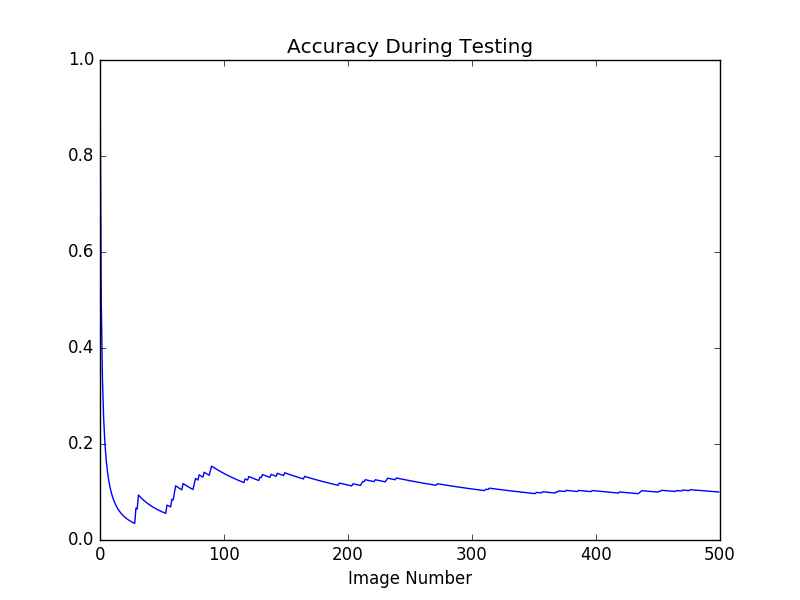
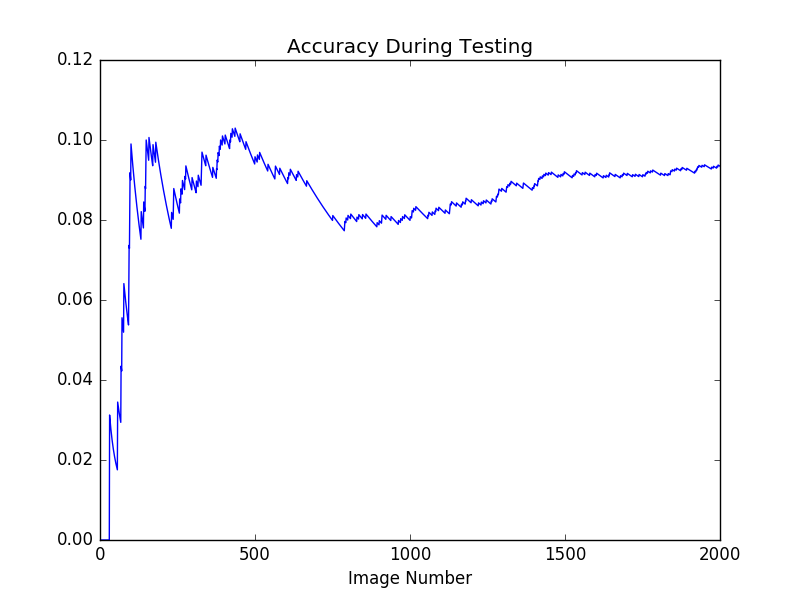
Continued debugging and still can't find the problem.  Added normalize and unnormalize to r_network_class.

diff --git a/Rozell/r_network_class.py b/Rozell/r_network_class.py
@@ -12,11 +12,13 @@ class r_network:
         self.dict_range = D.max() - D.min()
         self.dict_min = D.min()
         self.dict_scaled = False
+        self.norms = None
         self.trained = D.copy()
         self.train_range = self.trained.max() - self.trained.min()
         self.train_min = self.trained.min()
         self.train_scaled = False
         self.s = None
+        self.s_norm = None
         self.s_range = None
         self.s_min = None
         self.s_scaled = False
@@ -57,6 +59,24 @@ class r_network:
                 self.dictionary = (self.dictionary * self.dict_range) + self.dict_min
                 self.dict_scaled = False
             self.b = np.dot(np.transpose(self.dictionary), self.s)
+
+    def normalize(self):
+        self.s_norm = np.sqrt(np.dot(self.s, self.s))
+        self.s /= self.s_norm
+        self.norms = np.array([])
+        for i in range(self.dictionary.shape[1]):
+            norm = np.sqrt(np.dot(self.dictionary[:,i],self.dictionary[:,i]))
+            self.dictionary[:,i] /= norm
+            self.norms = np.append(self.norms, norm)
+        self.b = np.dot(np.transpose(self.dictionary), self.s)
+
+    def unnormalize(self):
+        self.s *= self.s_norm
+        for i in range(self.dictionary.shape[1]):
+            self.dictionary[:,i] *= self.norms[i]
+       
+
+        
 
 
 
@@ -109,14 +129,17 @@ class r_network:
     def generate_sparse(self, train = False):
         u = np.zeros(self.b.shape)
         self.a = u.copy()  #Initialize a by setting equal to u
-        self.scale(train)
+        #self.scale(train)
+        '''
+        self.s /= 255
+        self.dictionary /= 255
+        self.b = np.dot(np.transpose(self.dictionary), self.s)
+        '''
         #Use trained dictionary if using to train network
         if (train):
-            inhibit = np.dot(np.transpose(self.trained), self.trained)\
-                      - ((np.eye(self.trained.shape[1]) - self.train_min) / self.train_range)
+            inhibit = np.dot(np.transpose(self.trained), self.trained) - np.eye(self.trained.shape[1])#- self.train_min) / self.train_range)
         else:
-            inhibit = np.dot(np.transpose(self.dictionary), self.dictionary)\
-                         - ((np.eye(self.dictionary.shape[1]) - self.dict_min) / self.dict_range)
+            inhibit = np.dot(np.transpose(self.dictionary), self.dictionary) - np.eye(self.dictionary.shape[1])#- self.dict_min) / self.dict_range)
                                
         udot = (1/self.tau) * (self.b - u - np.dot(inhibit, self.a))
         loop_flag = True
@@ -124,7 +147,10 @@ class r_network:
         #Generate vector self.a
         #debug = []
         len_u = len(u)
+        iterations = 0
+        ulen = []
         while (loop_flag):
+            iterations += 1
             u = u + (udot * self.delta)
             #Update a vector
             for i in range(len(self.a)):
@@ -132,13 +158,19 @@ class r_network:
 
             udot = (1/self.tau) * (self.b - u - np.dot(inhibit, self.a))
             udot_length = math.sqrt(np.dot(udot,udot))
+            ulen.append(udot_length / len_u)
             if ((udot_length / len_u) < (self.u_stop)):
                 loop_flag = False
 
             #debug.append({ 'a': self.a.copy(), 'u': u.copy(), 'udot': ... })
         #pdb.set_trace()
-        self.scale(train)
-        return self.a
+        #self.scale(train)
+        '''
+        self.s *= 255
+        self.dictionary *= 255
+        self.b = np.dot(np.transpose(self.dictionary), self.s)
+        '''
+        return (self.a)   #, iterations, ulen)
         '''
         df = pandas.DataFrame(debug)
         print df.to_string()

diff --git a/Test/DB Classifier/debug_classifier.py b/Test/DB Classifier/debug_classifier.py
@@ -1,0 +1,78 @@
+import imp
+import os
+import sys
+from PIL import Image
+import numpy as np
+import socket
+import pandas
+import matplotlib.pyplot as plt
+import pdb
+
+machine = socket.gethostname()
+if (machine == 'Jack-PC'):
+    #Big laptop
+    sys.path.append('C:\\Users\\Jack2\\Desktop\\Git_Repos\\jc2\\MNIST_Load')
+    sys.path.append('C:\\Users\\Jack2\\Desktop\\Git_Repos\\jc2\\Rozell')
+    os.chdir('C:\\Users\\Jack2\\Desktop\\Git_Repos\\jc2\\MNIST_Load')
+elif (machine == 'Tab'):
+    #Little laptop
+    sys.path.append('C:\\Users\\Jack\\Desktop\\Git_Repos\\jc2\\MNIST_Load')
+    sys.path.append('C:\\Users\\Jack\\Desktop\\Git_Repos\\jc2\\Rozell')
+    os.chdir('C:\\Users\\Jack\\Desktop\\Git_Repos\\jc2\\MNIST_Load')
+else:
+    #PSU machines (linux lab)
+    base = os.path.expanduser('~/dev/jc2')
+    sys.path.append(os.path.join(base, 'MNIST_Load'))
+    sys.path.append(os.path.join(base, 'Rozell'))
+    os.chdir(os.path.join(base, 'MNIST_Load'))
+
+
+import mnist_load as mnist
+import sparse_algo as sp
+import r_network_class as lca
+
+
+##############################Test return_sparse##########################################################################################
+
+#Set parameters
+lamb = .1
+tau = 10
+delta = 0.01
+u_stop = 0.001
+t_type = 'S'
+num_images = 1
+
+
+#Load MNIST dictionary and signal
+image_file = 't10k-images.idx3-ubyte'  #'train-images.idx3-ubyte'
+signal_data = mnist.load_images(image_file, num_images, 740)
+dict_data = mnist.load_images(image_file, 50, 1)
+D = sp.build_dictionary(dict_data)
+#dict_data = pandas.read_csv('trained_data.csv', header=None, names=None)
+#D = dict_data.values
+
+#Run Rozell and generate sparse code
+network = lca.r_network(D)
+network.set_parameters(lamb, tau, delta, u_stop, t_type)
+lambdas = [lamb]
+
+#pdb.set_trace()
+#Set stimulus for Rozell and show original input image
+og_image = signal_data[0]
+signal = og_image.flatten()
+network.set_stimulus(signal)
+network.normalize()
+
+#Generate sparse code, show original image and reconstruction
+code = network.generate_sparse()
+network.unnormalize()
+print (code)
+recon_data = np.dot(network.dictionary, code).reshape((28,28))
+
+for i in (og_image, recon_data):
+    im = Image.fromarray(i)
+    im.show()
+
+
+
+

diff --git a/Test/test_learning2.py b/Test/test_learning2.py
@@ -18,7 +18,7 @@ if (machine == 'Jack-PC'):
     sys.path.append('C:\\Users\\Jack2\\Desktop\\Git_Repos\\jc2\\Classify')
     os.chdir('C:\\Users\\Jack2\\Desktop\\Git_Repos\\jc2\\MNIST_Load')
     file_path = 'C:\\Users\\Jack2\\Desktop'
-    dict_path = file_path + '\\Git_Repos\\jc2\\Classify\\trained_data.csv'
+    dict_path = file_path + '\\Git_Repos\\jc2\\Classify\\notrain_dict.csv'
     plot_path = file_path + '\\Git_Repos\\jc2\\Classify\\RMSE_plot'
     accuracy_path = file_path + '\\Git_Repos\\jc2\\Classify\\Accuracy_plot'
     weight_path = file_path + '\\Git_Repos\\jc2\\Classify\\weights.csv'
@@ -50,15 +50,15 @@ import classify
 
 
 ################### Set parameters ##############################################################
-lamb = 1
+lamb = 9
 tau = 10
-delta = 0.001
-u_stop = .01
+delta = 0.01
+u_stop = .001
 t_type = 'S'
 
 ################### Load MNIST image and label data #############################################
-num_images  = 500
-start_pos = 40000
+num_images  = 2000
+start_pos = 30000
 image_file = 'train-images.idx3-ubyte'
 label_file = 'train-labels.idx1-ubyte'
 image_data = mnist.load_images(image_file, num_images, start_pos)
@@ -76,10 +76,14 @@ weights = np.random.rand(10, 51)    #10 nodes in layer j+1 and 50 nodes in layer
 learn_rate = 0.01
 error_plot = np.array([])
 #pdb.set_trace()
+counter = 0
 for i, j in zip(image_data, label_data):
+    counter += 1
+    if (counter % 100 == 0):
+        print ("Image #: " + str(counter))
     #Run Rozell and forwardprop
     rozell.set_stimulus(i.flatten())
-    sparse_code = np.append(rozell.generate_sparse(), 1) #Add bias term
+    sparse_code = np.append(rozell.generate_sparse(), 1) #Add bias term    
     _, error, D = classify.forward_prop(weights, sparse_code, j)
 
     #Store error - represented as quadratic error: 0.5*(error)^2
